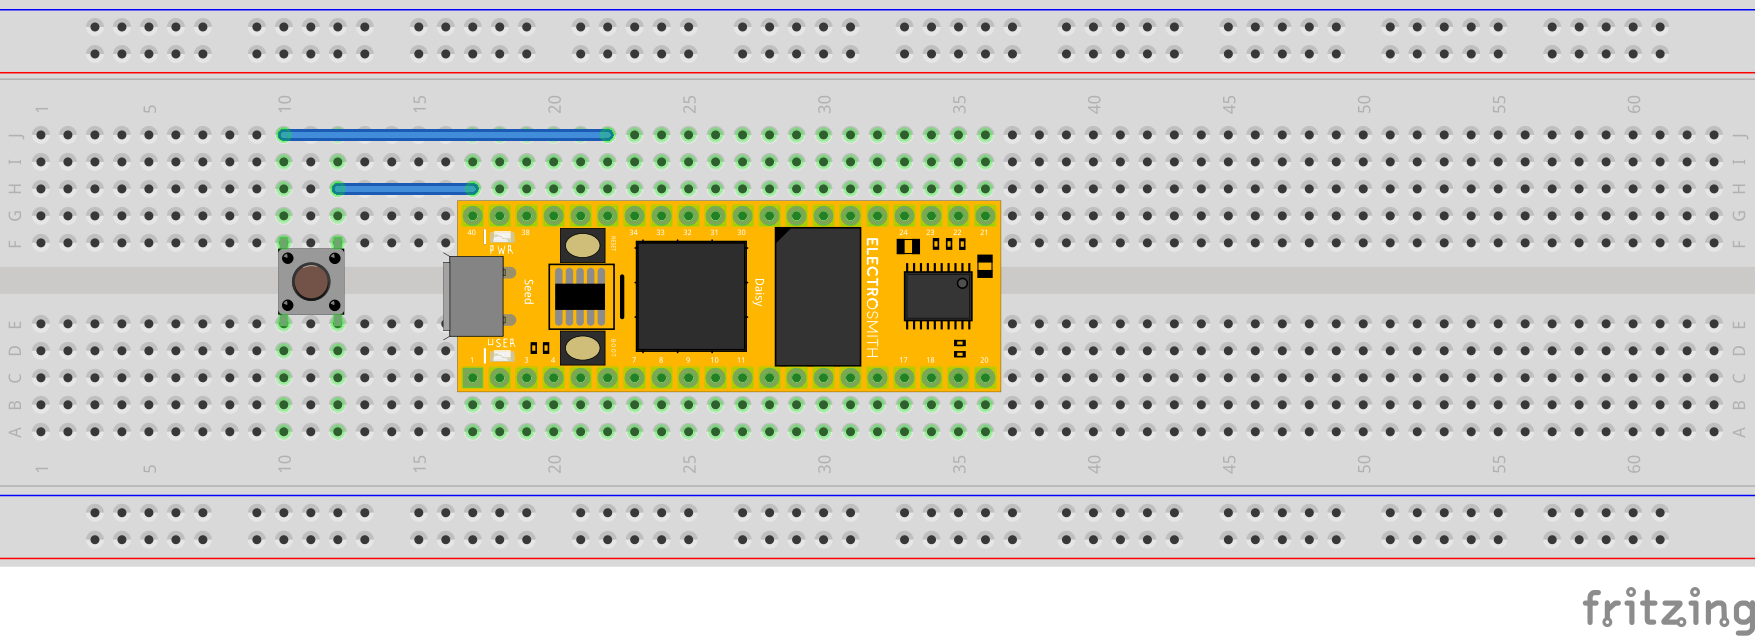
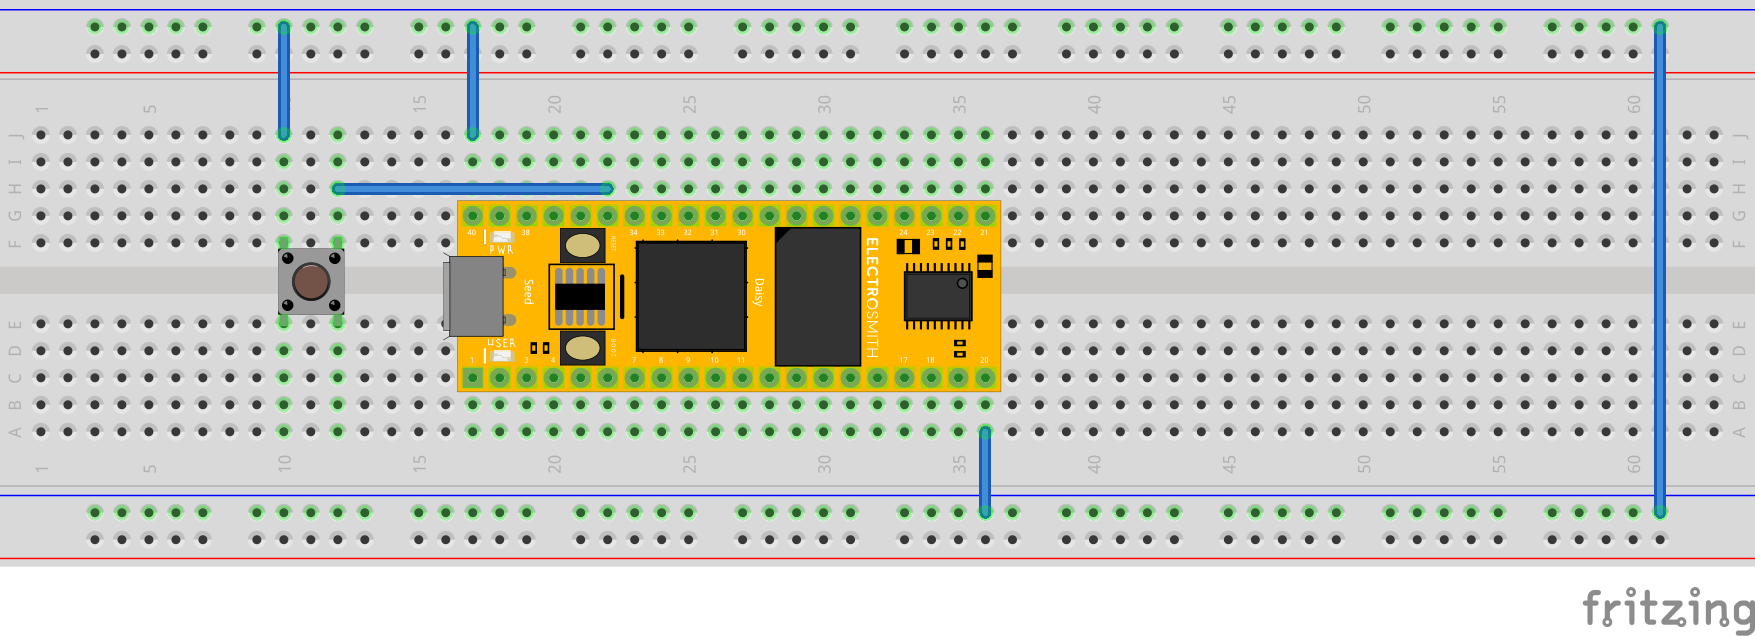
fixes #36, samplerate and GND

diff --git a/seed/SeedButton/SeedButton.cpp b/seed/SeedButton/SeedButton.cpp
@@ -17,12 +17,15 @@ int main(void)
     
     //Configure and initialize button
     Switch button1;
-    button1.Init(hw.GetPin(28), 10000);
+    button1.Init(hw.GetPin(28),1000);
+    dsy_tim_start();
+
     
     // Loop forever
     for(;;)
     {
         button1.Debounce();
 	hw.SetLed(button1.Pressed());	
+	dsy_tim_delay_ms(1);
     }
 }
